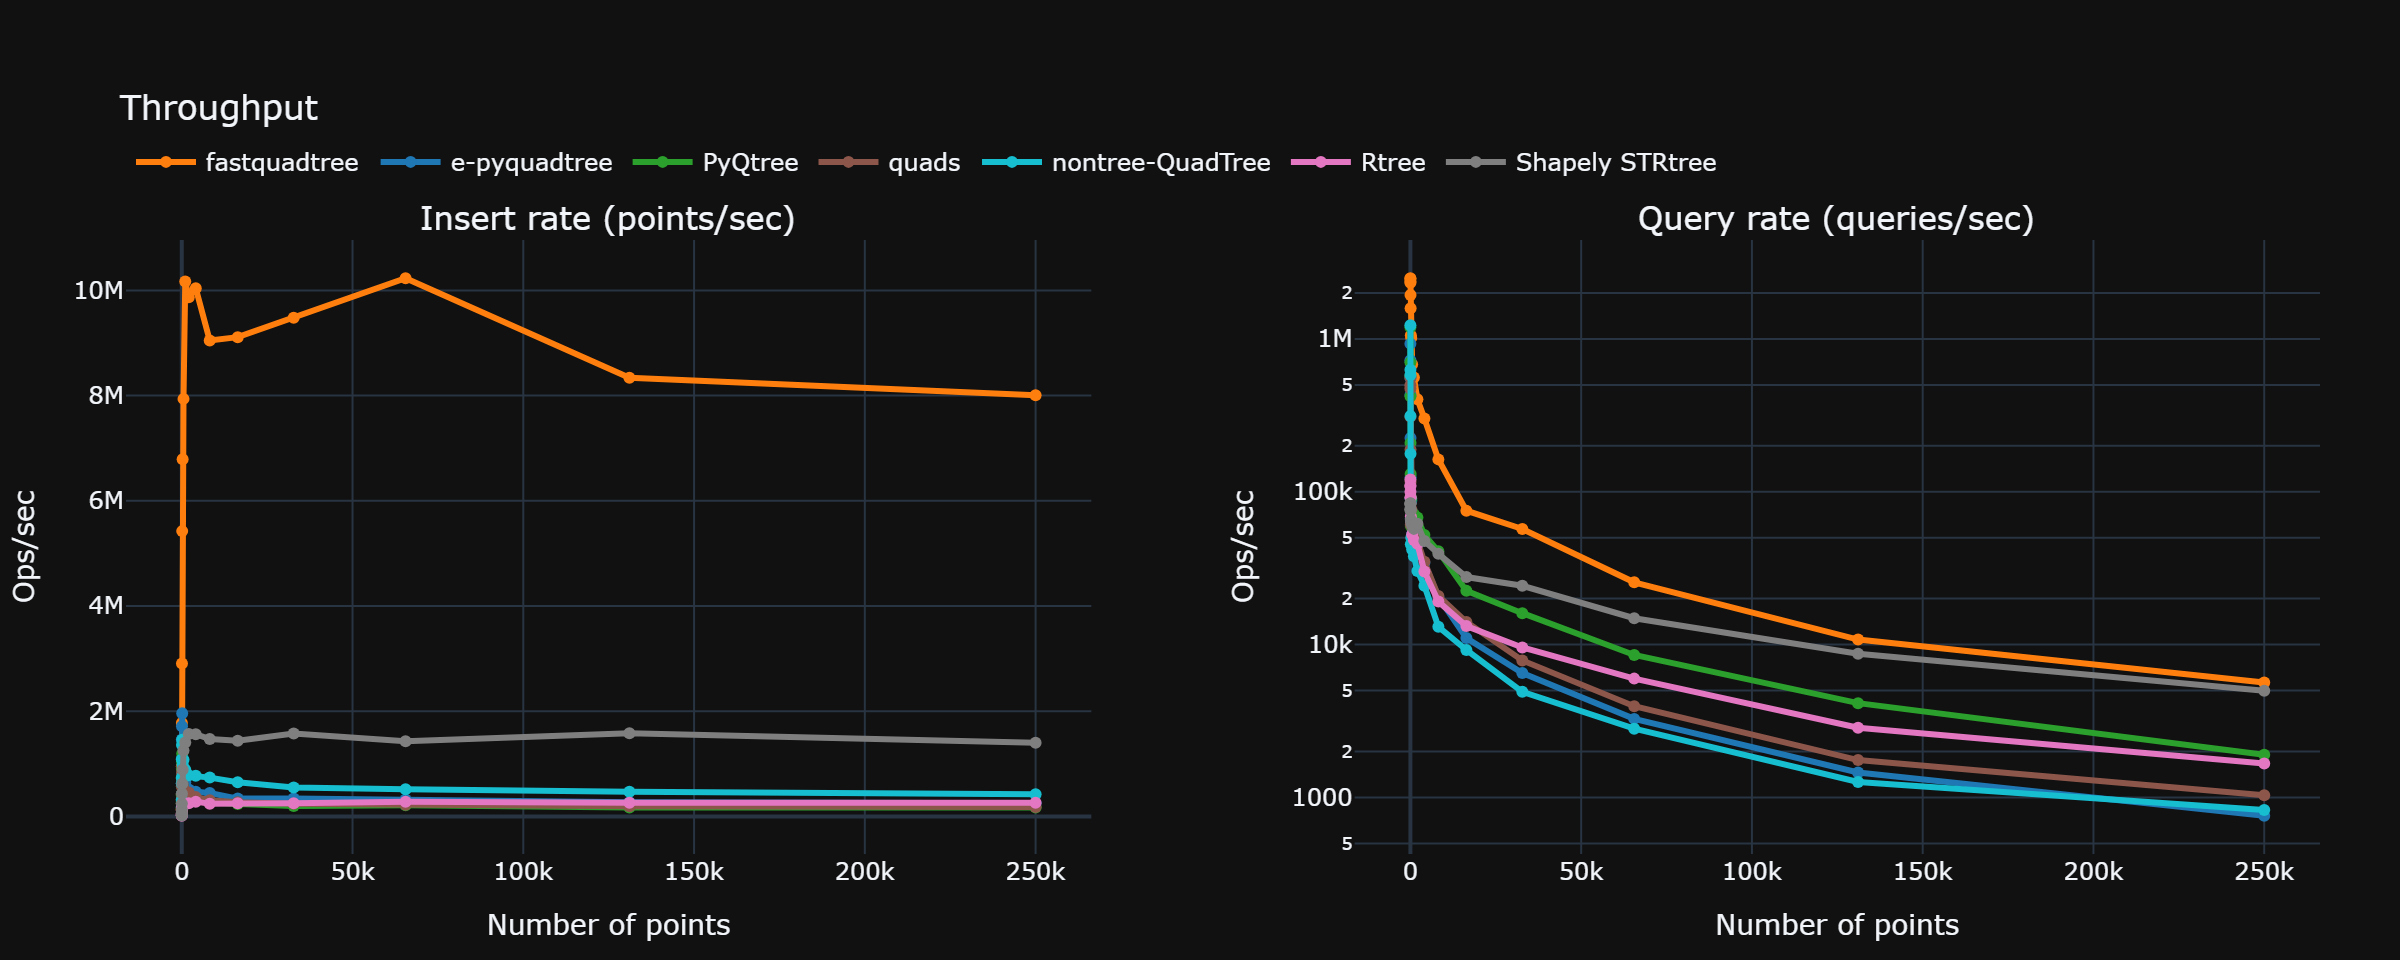
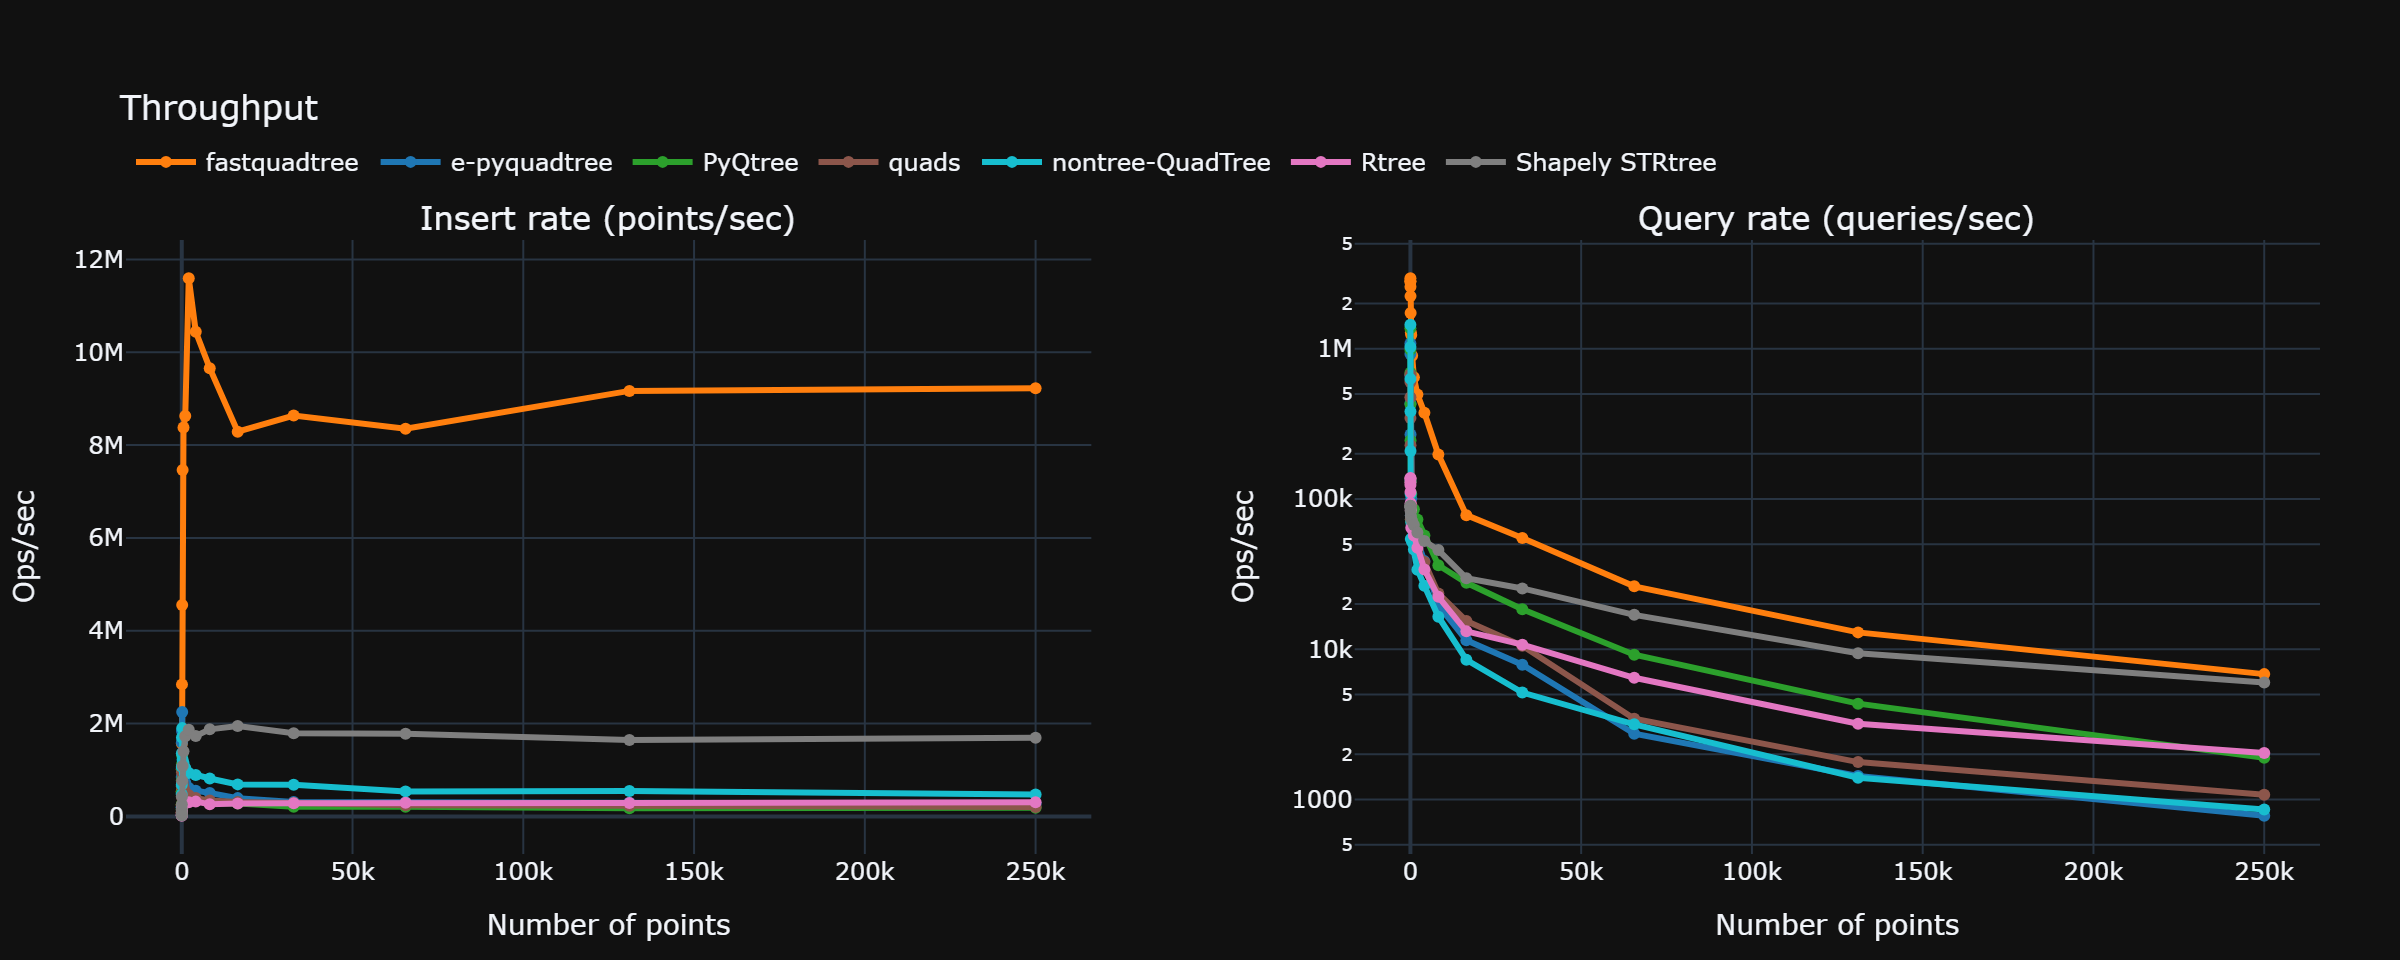
docs: updated benchmarks

diff --git a/docs/benchmark.md b/docs/benchmark.md
@@ -11,21 +11,20 @@ Quadtrees are the focus of the benchmark, but Rtrees are included for reference.
 ![Throughput](https://raw.githubusercontent.com/Elan456/fastquadtree/main/assets/quadtree_bench_throughput.png)
 
 ### Summary (largest dataset, PyQtree baseline)
-
 - Points: **250,000**, Queries: **500**
-- Fastest total: **fastquadtree** at **0.120 s**
+- Fastest total: **fastquadtree** at **0.100 s**
 
 | Library | Build (s) | Query (s) | Total (s) | Speed vs PyQtree |
 |---|---:|---:|---:|---:|
-| **fastquadtree** | 0.031 | 0.089 | 0.120 | **14.64×** |
-| Shapely STRtree | 0.179 | 0.100 | 0.279 | 6.29× |
-| nontree-QuadTree | 0.595 | 0.605 | 1.200 | 1.46× |
-| Rtree        | 0.961 | 0.300 | 1.261 | 1.39× |
-| e-pyquadtree | 1.005 | 0.660 | 1.665 | 1.05× |
-| PyQtree      | 1.492 | 0.263 | 1.755 | 1.00× |
-| quads        | 1.407 | 0.484 | 1.890 | 0.93× |
+| fastquadtree | 0.027 | 0.073 | 0.100 | 16.12× |
+| Shapely STRtree | 0.148 | 0.083 | 0.231 | 7.00× |
+| Rtree        | 0.814 | 0.245 | 1.059 | 1.53× |
+| nontree-QuadTree | 0.532 | 0.582 | 1.114 | 1.45× |
+| e-pyquadtree | 0.913 | 0.641 | 1.554 | 1.04× |
+| PyQtree      | 1.352 | 0.264 | 1.616 | 1.00× |
+| quads        | 1.231 | 0.465 | 1.695 | 0.95× |
 
-### Benchmark Configuration
+#### Benchmark Configuration
 | Parameter | Value |
 |---|---:|
 | Bounds | (0, 0, 1000, 1000) |
